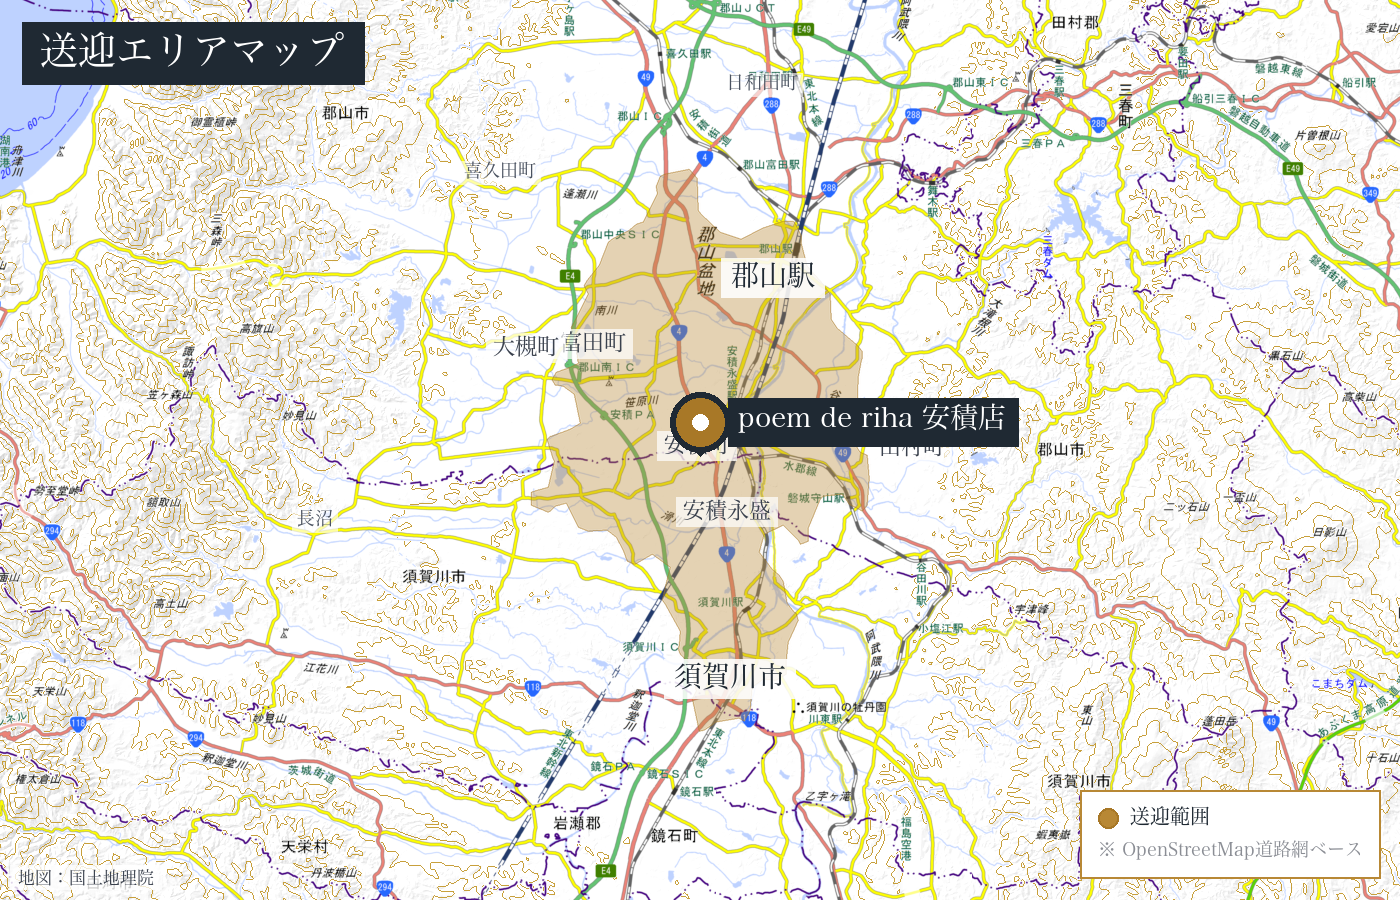
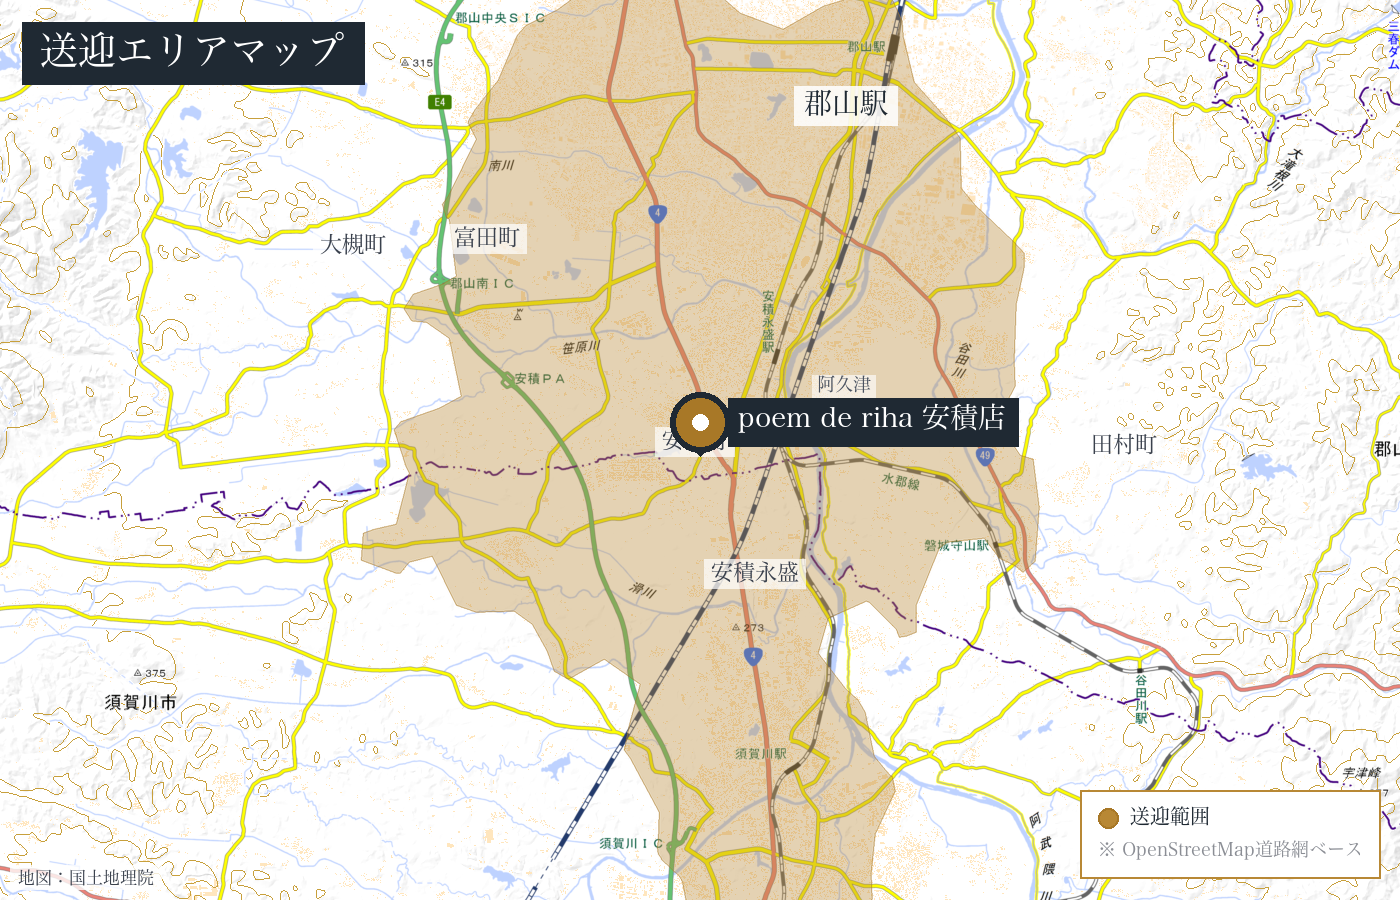
isochrone: 安積店マップのズームを 12→13 に拡大
- 事業所ごとに zoom を指定可能に（既定は 12）
- 安積店のみ zoom=13 にして道路・施設・町域がより詳細に見えるよう調整

diff --git a/tools/generate-isochrone-map.py b/tools/generate-isochrone-map.py
@@ -32,6 +32,7 @@ FACILITIES = [
         'slug': 'asaka',
         'lat': 37.349490, 'lng': 140.362112,
         'range_sec': 420,  # 片道7分
+        'zoom': 13,
         'tile_url': 'https://cyberjapandata.gsi.go.jp/xyz/std/{z}/{x}/{y}.png',  # 国土地理院 標準地図
         'tile_attribution': '地図：国土地理院',
         'labels': [
@@ -146,6 +147,7 @@ def latlng_to_xy(lat, lng, c_lat, c_lng, w, h, zoom):
 
 def render_facility(fac, output_dir, zoom=12, w=1400, h=900):
     """1事業所のマップを生成"""
+    zoom = fac.get('zoom', zoom)
     range_sec = fac.get('range_sec', 600)
     tile_url = fac.get('tile_url', 'https://a.tile.openstreetmap.org/{z}/{x}/{y}.png')
     tile_attr = fac.get('tile_attribution', '地図：OpenStreetMap')
